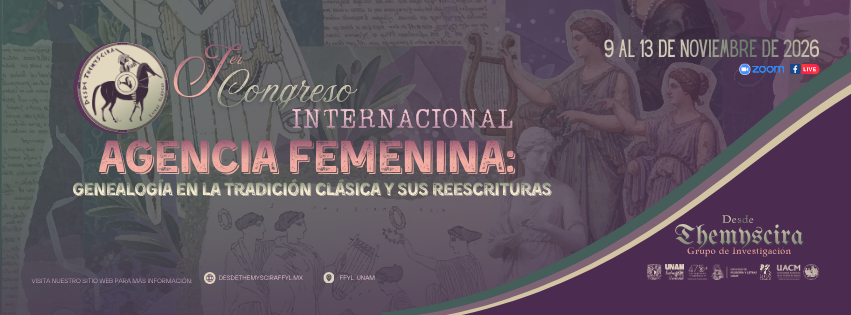
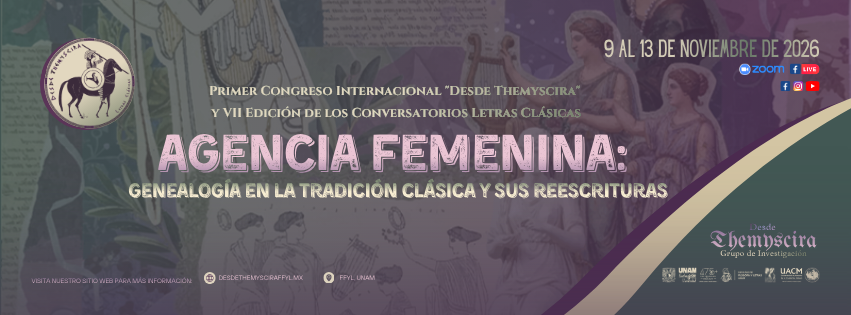
updateCongres

diff --git a/_pages/viiconver.md b/_pages/viiconver.md
@@ -8,7 +8,7 @@ image: assets/images/about/1Congres.png
 <img  width="100%"
 src="/assets/images/testimonial/fbcogres.png" />
 
-<h3> <span style="color: #800080; font-weight: bold;">Primer Congreso Internacional “Agencia femenina: genealogías en la tradición clásica y sus reescrituras”</span> </h3>
+<h3> <span style="color: #800080; font-weight: bold;">Primer Congreso Internacional y VII Conversatorio de Letras Clásicas “Agencia femenina: genealogías en la tradición clásica y sus reescrituras”</span> </h3>
 
 **🗓 Fecha: Del 09 al 13 de noviembre de 2026** 
 
